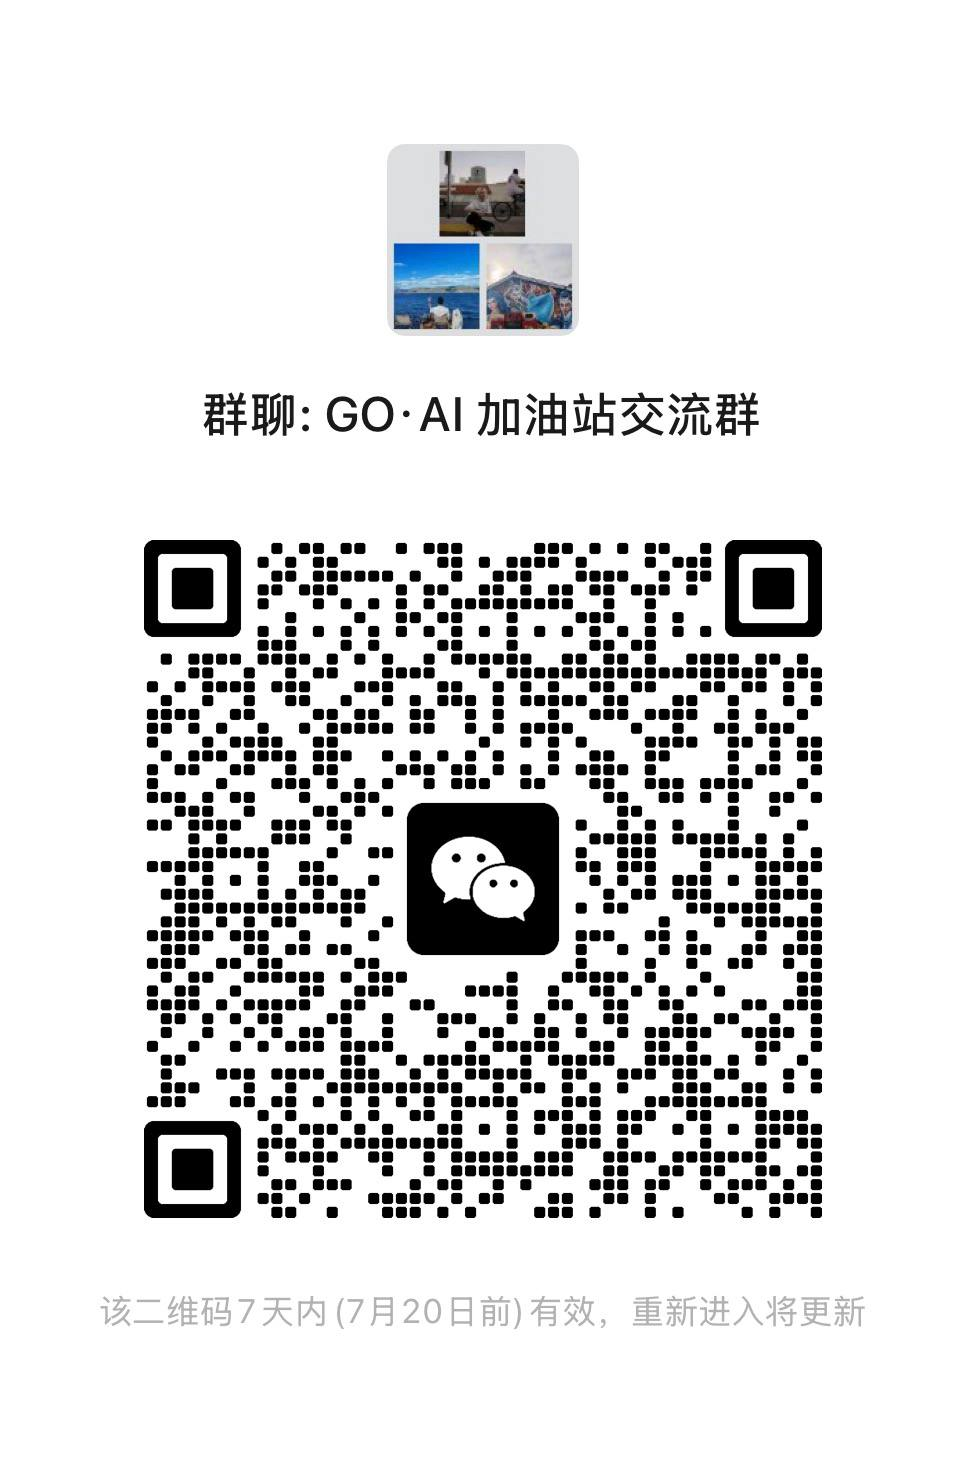
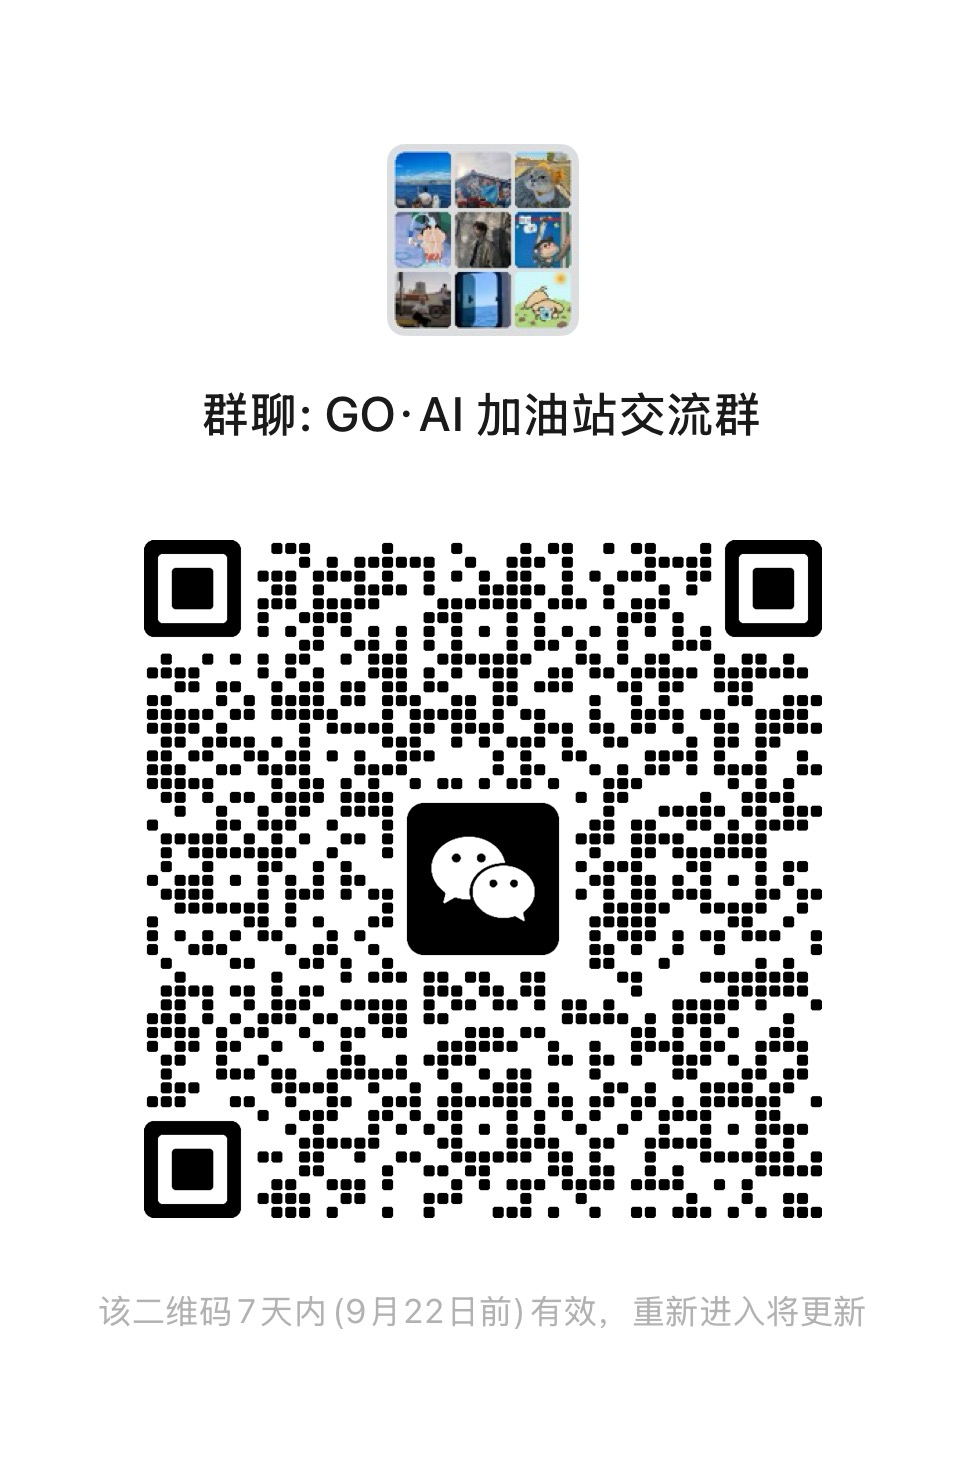
feat: 更新客户端配置指南与微信扫码入群方式
- 将第三方工具示例由 Cherry Studio 调整为 CC Switch
- 补充各模型的官网链接、API 地址及配置示例
- 新增 Hermes 接入 Claude 返回 403 的解决方案
- 更新微信扫码入群方式

diff --git a/docs/guide/client.md b/docs/guide/client.md
@@ -1,6 +1,6 @@
 # GasOrange 客户端与第三方调用指南
 
-本教程将引导您在 GasOrange 大模型中转平台上，配置并使用各种主流 CLI 客户端（如 **Claude Code**、**OpenAI Codex CLI**、**Gemini CLI**）以及第三方客户端软件（如 **Cherry Studio**）。
+本教程将引导您在 GasOrange 大模型中转平台上，配置并使用各种主流 CLI 客户端（如 **Claude Code**、**OpenAI Codex CLI**、**Gemini CLI**）以及第三方客户端软件（如 **CC Switch**）。
 
 ---
 
@@ -8,7 +8,8 @@
 - [Claude Code 使用指南](#claude-code-使用指南)
 - [OpenAI Codex CLI 使用指南](#openai-codex-cli-使用指南)
 - [Gemini CLI 使用指南](#gemini-cli-使用指南)
-- [第三方工具配置（以 Cherry Studio 为例）](#第三方工具配置以-cherry-studio-为例)
+- [第三方工具配置（以 CC Switch 为例）](#第三方工具配置以-cc-switch-为例)
+- [Hermes 接入 Claude 返回 403](#hermes-claude-403)
 
 ---
 
@@ -420,31 +421,136 @@ gemini -m gemini-2.5-flash
 
 ---
 
-## 第三方工具配置（以 Cherry Studio 为例）
+## 第三方工具配置（以 CC Switch 为例）
 
 ### 声明
+
 * GasOrange 官方仅对 Claude Code、OpenAI Codex CLI 以及 Gemini CLI 官方客户端提供售后支持。第三方工具的配置教程仅供参考。
-* 管理 API 密钥：[https://www.gasorange.com/console/token](https://www.gasorange.com/console/token)
-* 查询可用模型：[https://www.gasorange.com/pricing](https://www.gasorange.com/pricing)
+* CC Switch 用于管理和切换客户端的供应商配置；请先安装需要使用的 CLI 客户端。
+* 下载：[CC Switch Releases](https://github.com/farion1231/cc-switch/releases)
+* 管理 API 密钥：[GasOrange 令牌管理](https://www.gasorange.com/console/token)
+* 查询可用模型：[GasOrange 模型与价格](https://www.gasorange.com/pricing)
 
-### 1. 配置 Anthropic / Claude 模型
-1. 登录 GasOrange 控制台生成您的 API Key。
-2. 打开 Cherry Studio，进入 **设置** ➔ **模型提供商 (Model Provider)**。
-3. 点击 **添加**，选择 Provider 类型为 **Anthropic**。
-4. 将 API Key 填入输入框，并将 **API Host (或 Base URL)** 修改为：
-   `https://www.gasorange.com`
-5. 手动添加您想要调用的模型（如 `claude-opus-4-6`），点击保存即可开始使用。
+### 1. 添加 GasOrange 供应商
 
-### 2. 配置 OpenAI 兼容模型
-1. 在 Cherry Studio 的 **模型提供商 (Model Provider)** 页面中点击 **添加**。
-2. 选择 Provider 类型为 **OpenAI**。
-3. 将 API Key 填入输入框，并将 **API Host / Base URL** 修改为：
-   `https://www.gasorange.com/v1`
-4. 手动输入或加载模型列表（如 `gpt-5.4`），保存后即可开始使用。
+打开 CC Switch，选择需要配置的应用（Claude Code、Codex 或 Gemini），点击右上角 **+**，在应用专属供应商中选择 **自定义**，名称填写 `GasOrange`。按下面对应应用的格式填写配置，将 `YOUR_GASORANGE_API_KEY` 替换为自己的密钥，模型名称以平台当前可用列表为准。
 
-### 3. 配置 Gemini 模型
-1. 在 Cherry Studio 的 **模型提供商 (Model Provider)** 页面中点击 **添加**。
-2. 选择 Provider 类型为 **Gemini**。
-3. 将 API Key 填入输入框，并将 **API Host / Base URL** 修改为：
-   `https://www.gasorange.com/v1beta`
-4. 手动输入您想要调用的模型名称（如 `gemini-3.1-pro-preview`），保存即可。
+### 2. Claude Code 配置
+
+* **官网链接**：`https://www.gasorange.com`
+* **API 请求地址**：`https://www.gasorange.com`
+
+使用 Anthropic Messages 格式，配置JSON 示例：
+
+```json
+{
+  "env": {
+    "ANTHROPIC_API_KEY": "YOUR_GASORANGE_API_KEY",
+    "ANTHROPIC_BASE_URL": "https://www.gasorange.com"
+  }
+}
+```
+
+### 3. Codex 配置
+
+* **官网链接**：`https://www.gasorange.com`
+* **API 请求地址**：`https://www.gasorange.com/v1`
+
+在供应商编辑界面的认证配置（`auth.json`）中填写：
+
+```json
+{
+  "OPENAI_API_KEY": "YOUR_GASORANGE_API_KEY"
+}
+```
+
+在模型与端点配置（`config.toml`）中填写，将模型占位符替换为可用的 Codex 模型：
+
+```toml
+model_provider = "gasorange"
+model = "替换为可用的 Codex 模型名称"
+
+[model_providers.gasorange]
+name = "GasOrange"
+base_url = "https://www.gasorange.com/v1"
+wire_api = "responses"
+requires_openai_auth = true
+```
+
+### 4. Gemini CLI 配置
+
+* **官网链接**：`https://www.gasorange.com`
+* **API 请求地址**：`https://www.gasorange.com`
+
+环境变量 (.env) 示例：
+
+```json
+"GEMINI_API_KEY": "YOUR_GASORANGE_API_KEY",
+"GOOGLE_GEMINI_BASE_URL": "https://www.gasorange.com"
+```
+
+配置文件 (config.json)示例：
+
+```json
+{
+  "security": {
+    "auth": {
+      "selectedType": "gemini-api-key"
+    }
+  },
+  "mcpServers": {}
+}
+```
+
+
+
+### 5. 启用与验证
+
+保存后，在对应应用的供应商卡片上点击 **启用**。重新打开终端或重启对应客户端，运行 `claude`、`codex` 或 `gemini`，发送一条消息验证配置。
+
+配置失败时，检查密钥、模型权限及端点地址，并确认当前启用的是对应应用下的 GasOrange 供应商。
+
+参考：[CC Switch 添加供应商文档](https://github.com/farion1231/cc-switch/blob/main/docs/user-manual/zh/2-providers/2.1-add.md)、[切换供应商文档](https://github.com/farion1231/cc-switch/blob/main/docs/user-manual/zh/2-providers/2.2-switch.md)。界面名称以安装版本为准。
+
+---
+
+## Hermes 接入 Claude 返回 HTTP 403:Your request was blocked{#hermes-claude-403}
+
+### 问题现象
+
+客户使用 Hermes Agent 通过 GasOrange 接入 Claude，发送消息后请求失败，界面提示：
+
+```text
+HTTP 403: Your request was blocked.
+```
+
+### 解决方案
+
+在 Hermes 配置文件中为 GasOrange 提供商新增 `extra_headers`，设置 `User-Agent: Mozilla/5.0`。
+
+1. 打开 Windows 配置文件（将“用户名”替换为当前 Windows 用户名）：
+
+   ```text
+   C:\Users\用户名\AppData\Local\hermes\config.yaml
+   ```
+
+   也可在资源管理器地址栏输入 `%LOCALAPPDATA%\hermes\config.yaml` 定位文件。
+
+2. 找到 `providers` 下的 `gasorange` 配置，新增以下请求头。`extra_headers` 与该提供商的 `key_env` 同级，`User-Agent` 再缩进一层：
+
+   ```yaml
+   providers:
+     gasorange:
+       # 保留此处已有的 base_url、model、models 等配置
+       key_env: HERMES_CUSTOM_GASORANGE_API_KEY
+       extra_headers:
+         User-Agent: Mozilla/5.0
+   ```
+
+   只需在现有配置中补充 `extra_headers`；不要用此片段覆盖整个配置文件。若已有 `extra_headers`，在其下补充或更新 `User-Agent`，保留其他请求头。YAML 缩进使用空格，不要使用 Tab。
+
+   ![在 providers.gasorange 下添加 extra_headers 和 User-Agent](./hermes-extra-headers.png)
+
+3. 保存配置后，重启 Hermes网关，再发送一条消息，确认是否恢复正常响应。
+
+若仍返回 403，请确认修改的是当前使用的配置文件、提供商及缩进层级，并携带错误信息联系支持进一步排查。
